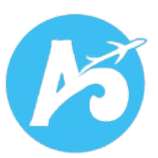
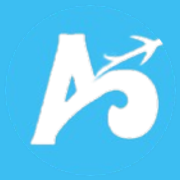
Make the back office installable as an app (PWA)
- Add a web app manifest so Chrome, Edge (Windows), Android and iOS
  can install Aeropath with its own window and icon.
- Add 192/512 install icons and a maskable icon for Android launchers.
- Fix the iOS home-screen icon: it had transparent corners, which iOS
  paints black. It is now an opaque 180px icon.
- Fix the logo icons: the "A" is a transparent cut-out, so it showed
  dark on dark taskbars; icons now have a white glyph and a centred badge.
- Set the iOS home-screen title to "Aeropath".
- Ignore vendored .claude/ skill scripts in ESLint (94 warnings, none in app code).

diff --git a/src/app/manifest.ts b/src/app/manifest.ts
@@ -1,0 +1,21 @@
+import type { MetadataRoute } from "next";
+
+/** Makes the back office installable as an app on phones, tablets and Windows/macOS desktops. */
+export default function manifest(): MetadataRoute.Manifest {
+  return {
+    id: "/",
+    name: "Aeropath Back Office",
+    short_name: "Aeropath",
+    description: "Staff back office for Aeropath Travel: bookings, payments, suppliers and reports.",
+    start_url: "/",
+    scope: "/",
+    display: "standalone",
+    background_color: "#f4f6f9",
+    theme_color: "#ffffff",
+    icons: [
+      { src: "/icons/icon-192.png", sizes: "192x192", type: "image/png", purpose: "any" },
+      { src: "/icons/icon-512.png", sizes: "512x512", type: "image/png", purpose: "any" },
+      { src: "/icons/maskable-512.png", sizes: "512x512", type: "image/png", purpose: "maskable" },
+    ],
+  };
+}

diff --git a/src/app/layout.tsx b/src/app/layout.tsx
@@ -7,6 +7,7 @@ export const metadata: Metadata = {
   title: { default: "Aeropath Back Office", template: "%s · Aeropath" },
   description: "Staff back office for Aeropath Travel: bookings, payments, suppliers and reports.",
   robots: { index: false, follow: false },
+  appleWebApp: { title: "Aeropath", statusBarStyle: "default" },
 };
 
 export const viewport: Viewport = {
